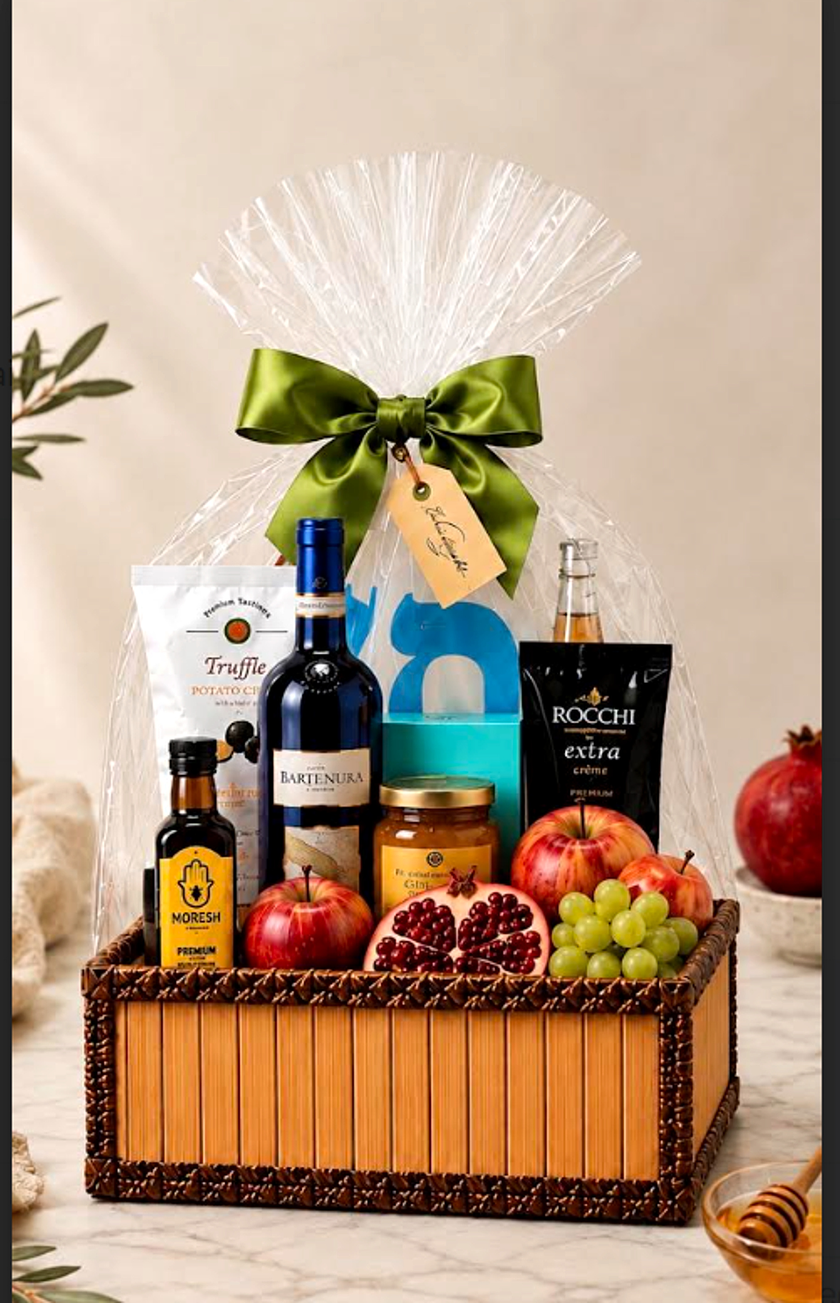
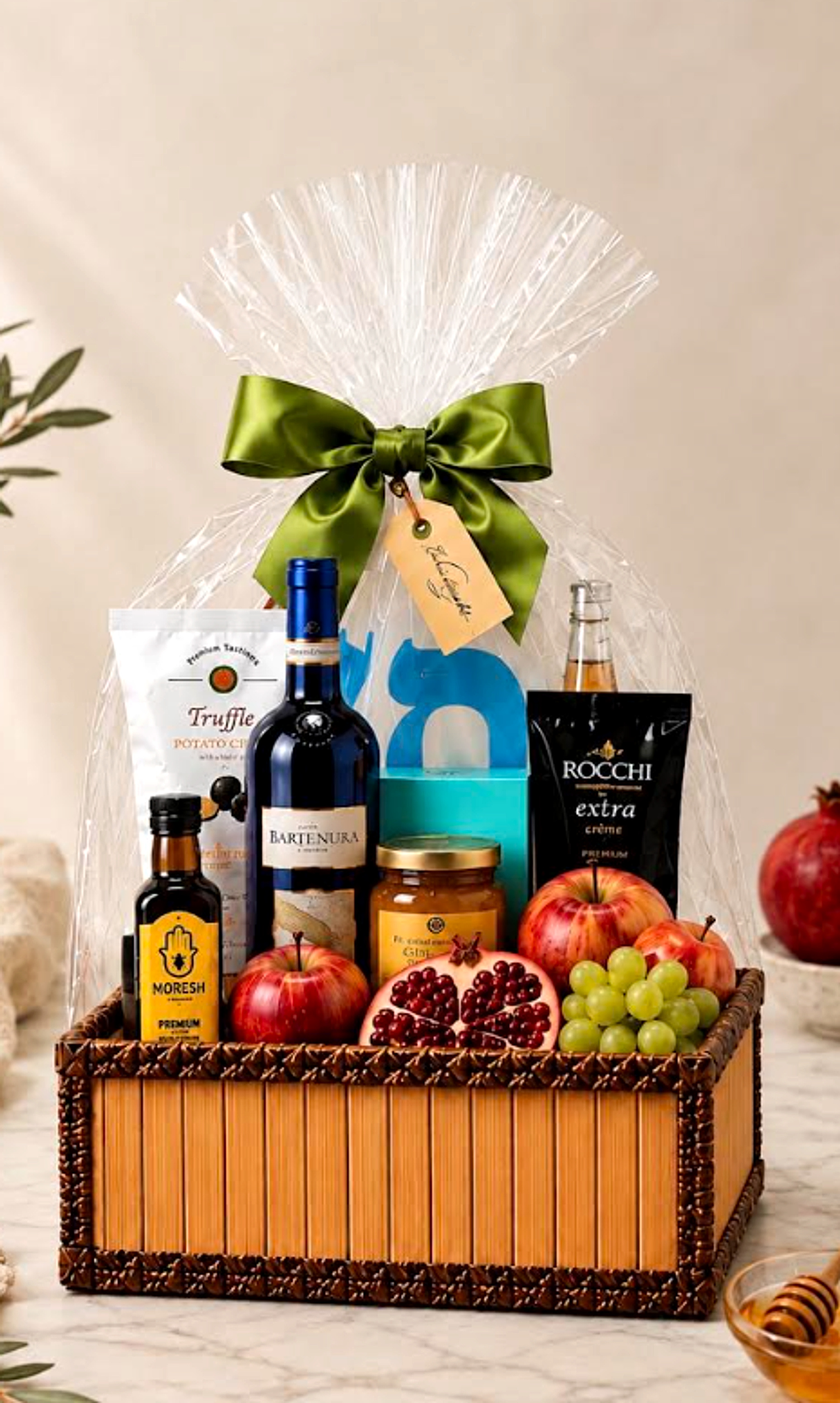
Corrige l'écriture du fichier local sur environnement serverless (Vercel)

diff --git a/components/ProductCard.tsx b/components/ProductCard.tsx
@@ -8,12 +8,12 @@ export default function ProductCard({ product }: { product: Product }) {
       href={`/produit/${product.slug}`}
       className="group flex flex-col overflow-hidden rounded-3xl border border-cream-300 bg-cream-50 shadow-sm transition duration-300 hover:-translate-y-0.5 hover:border-gold-300/60 hover:shadow-md"
     >
-      <div className="relative aspect-[3/4] w-full overflow-hidden bg-gradient-to-b from-cream-50 to-cream-200">
+      <div className="relative aspect-[2/3] w-full overflow-hidden bg-gradient-to-b from-cream-50 to-cream-200">
         {/* eslint-disable-next-line @next/next/no-img-element */}
         <img
           src={product.image}
           alt={product.name}
-          className="h-full w-full object-contain p-5 transition duration-500 group-hover:scale-105 sm:p-7"
+          className="h-full w-full object-contain p-1.5 transition duration-500 group-hover:scale-105"
         />
         {product.badge && (
           <span className="absolute left-3 top-3 rounded-full bg-garnet-900/90 px-3 py-1 text-[11px] font-semibold uppercase tracking-wide text-gold-200 shadow backdrop-blur-sm">

diff --git a/app/produit/[slug]/page.tsx b/app/produit/[slug]/page.tsx
@@ -61,12 +61,12 @@ export default async function ProductPage({ params }: ProductPageProps) {
       </nav>
 
       <div className="grid grid-cols-1 gap-8 lg:grid-cols-2 lg:gap-12">
-        <div className="relative aspect-[3/4] w-full overflow-hidden rounded-3xl bg-gradient-to-b from-cream-50 to-cream-200 shadow-sm">
+        <div className="relative aspect-[2/3] w-full overflow-hidden rounded-3xl bg-gradient-to-b from-cream-50 to-cream-200 shadow-sm">
           {/* eslint-disable-next-line @next/next/no-img-element */}
           <img
             src={product.image}
             alt={product.name}
-            className="h-full w-full object-contain p-6 sm:p-8"
+            className="h-full w-full object-contain p-2"
           />
           {product.badge && (
             <span className="absolute left-4 top-4 rounded-full bg-garnet-900/90 px-3 py-1 text-[11px] font-semibold uppercase tracking-wide text-gold-200 shadow backdrop-blur-sm">
